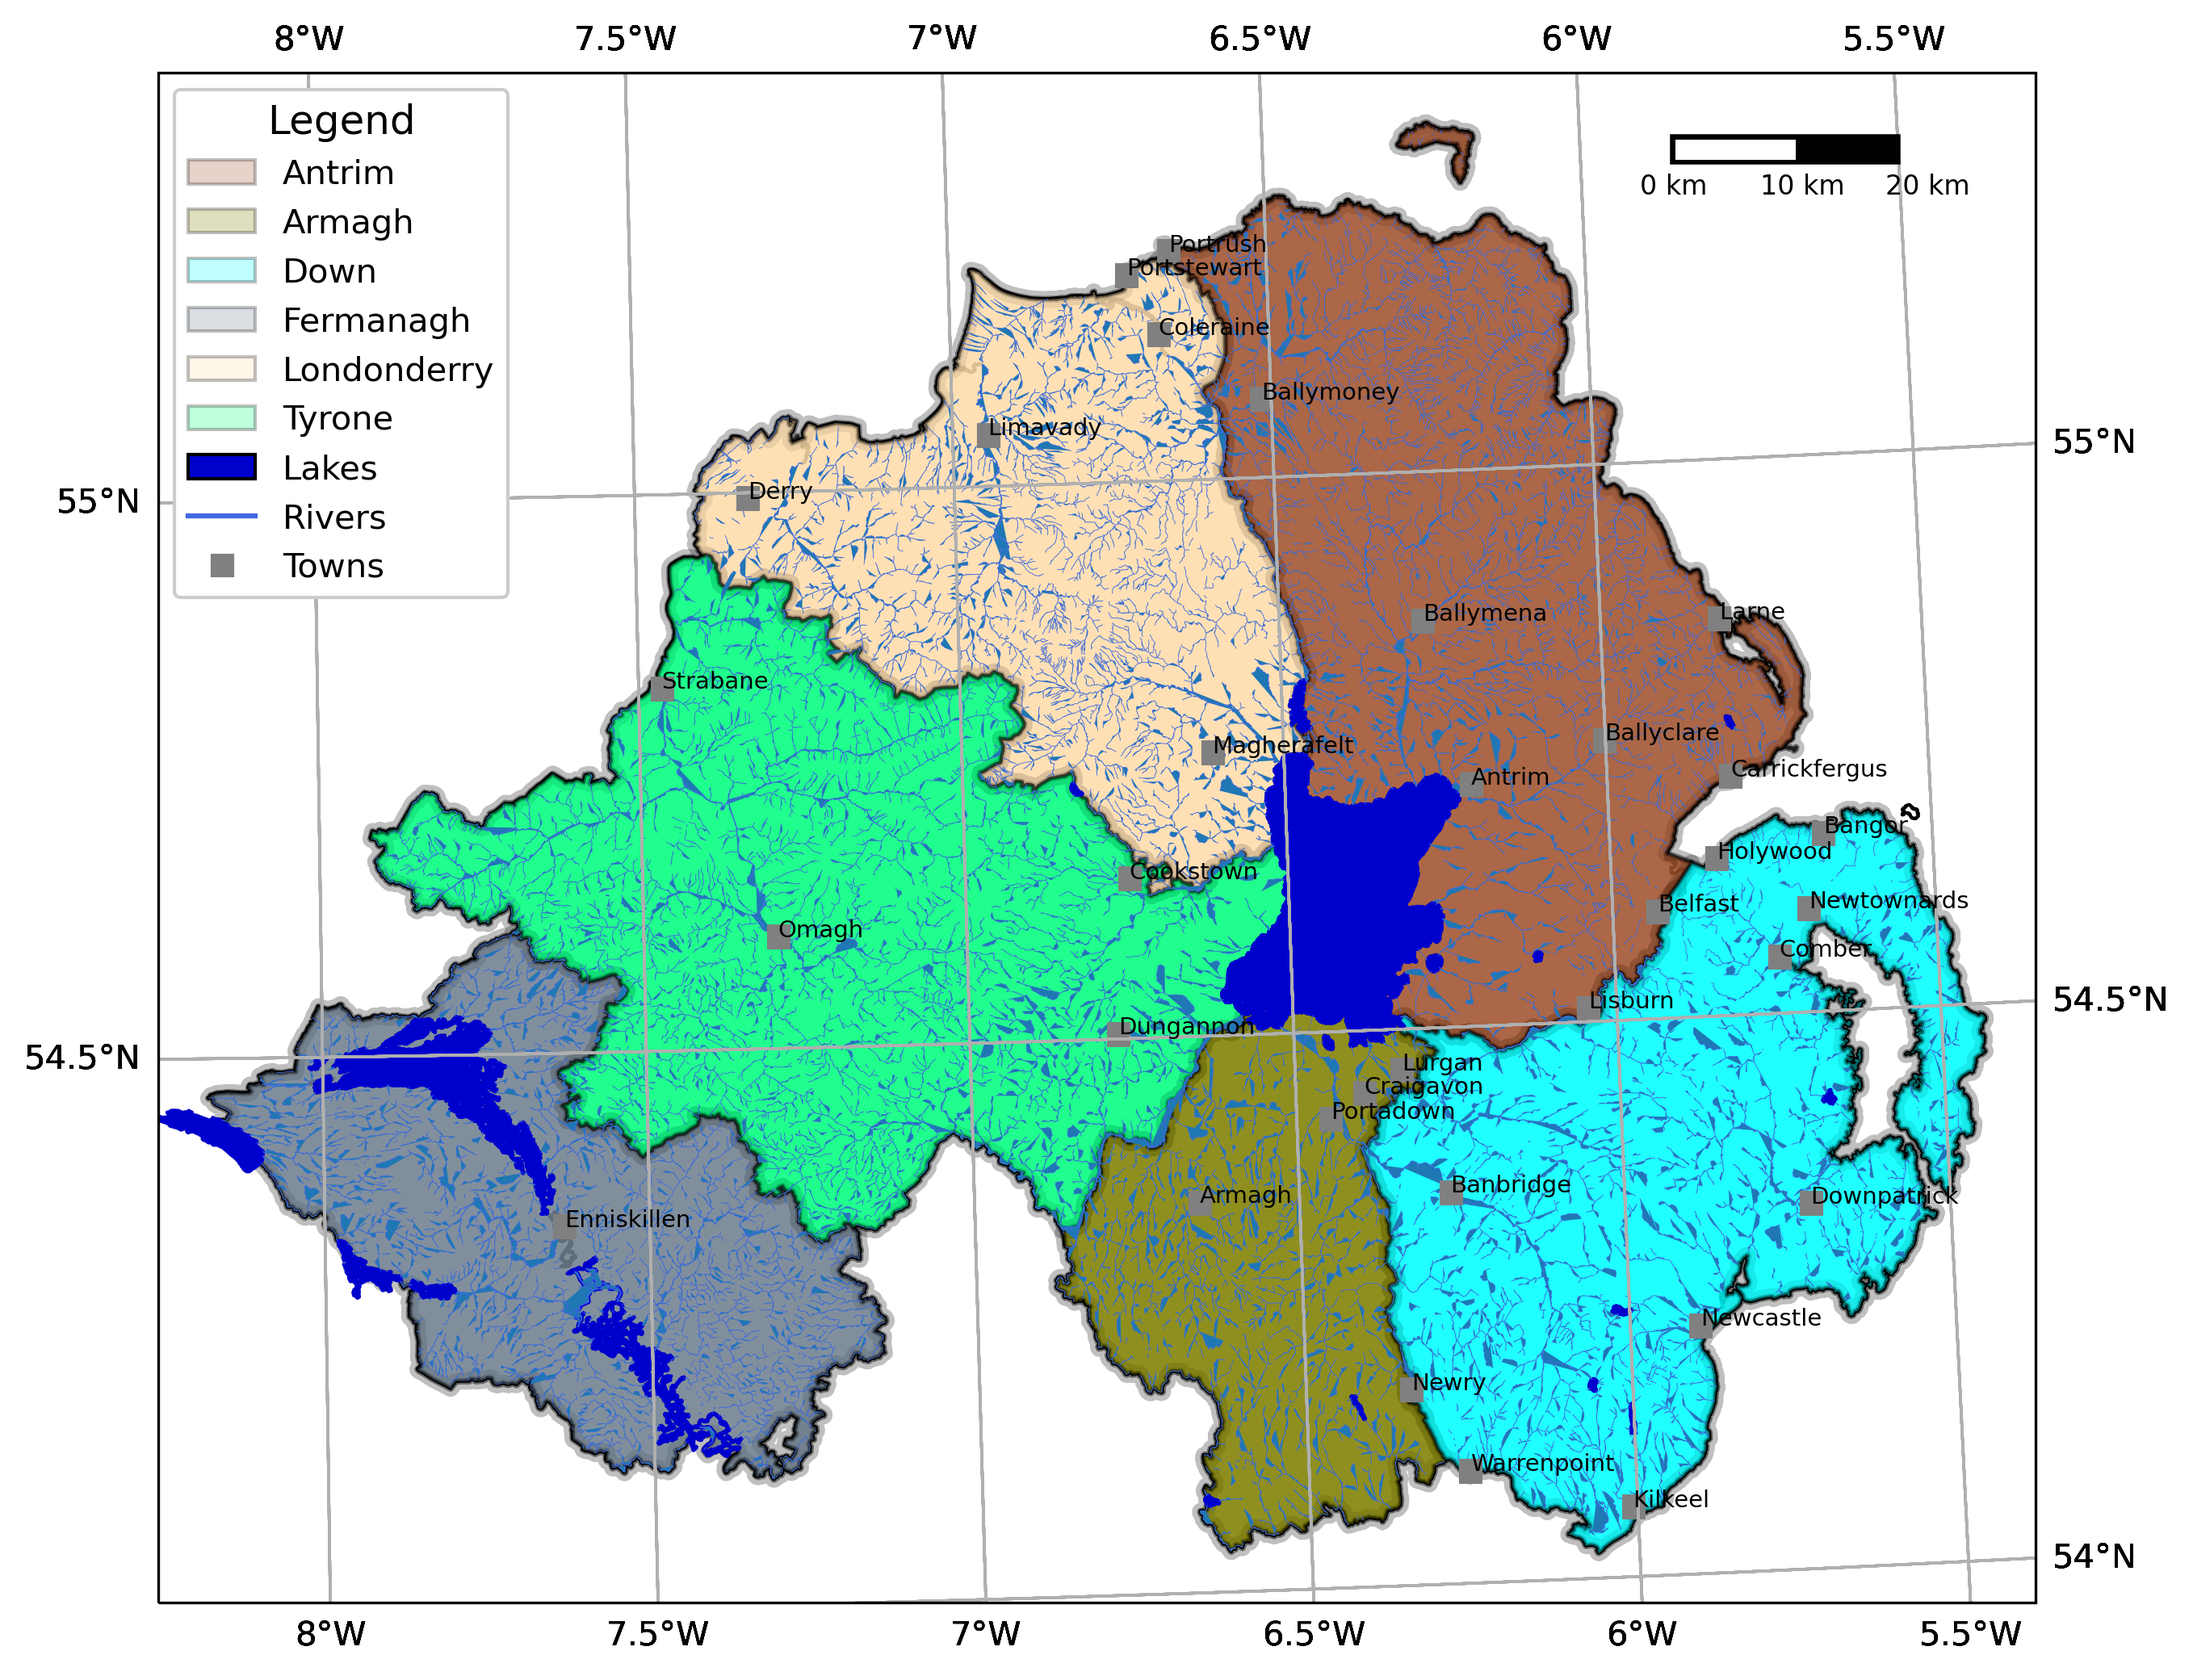
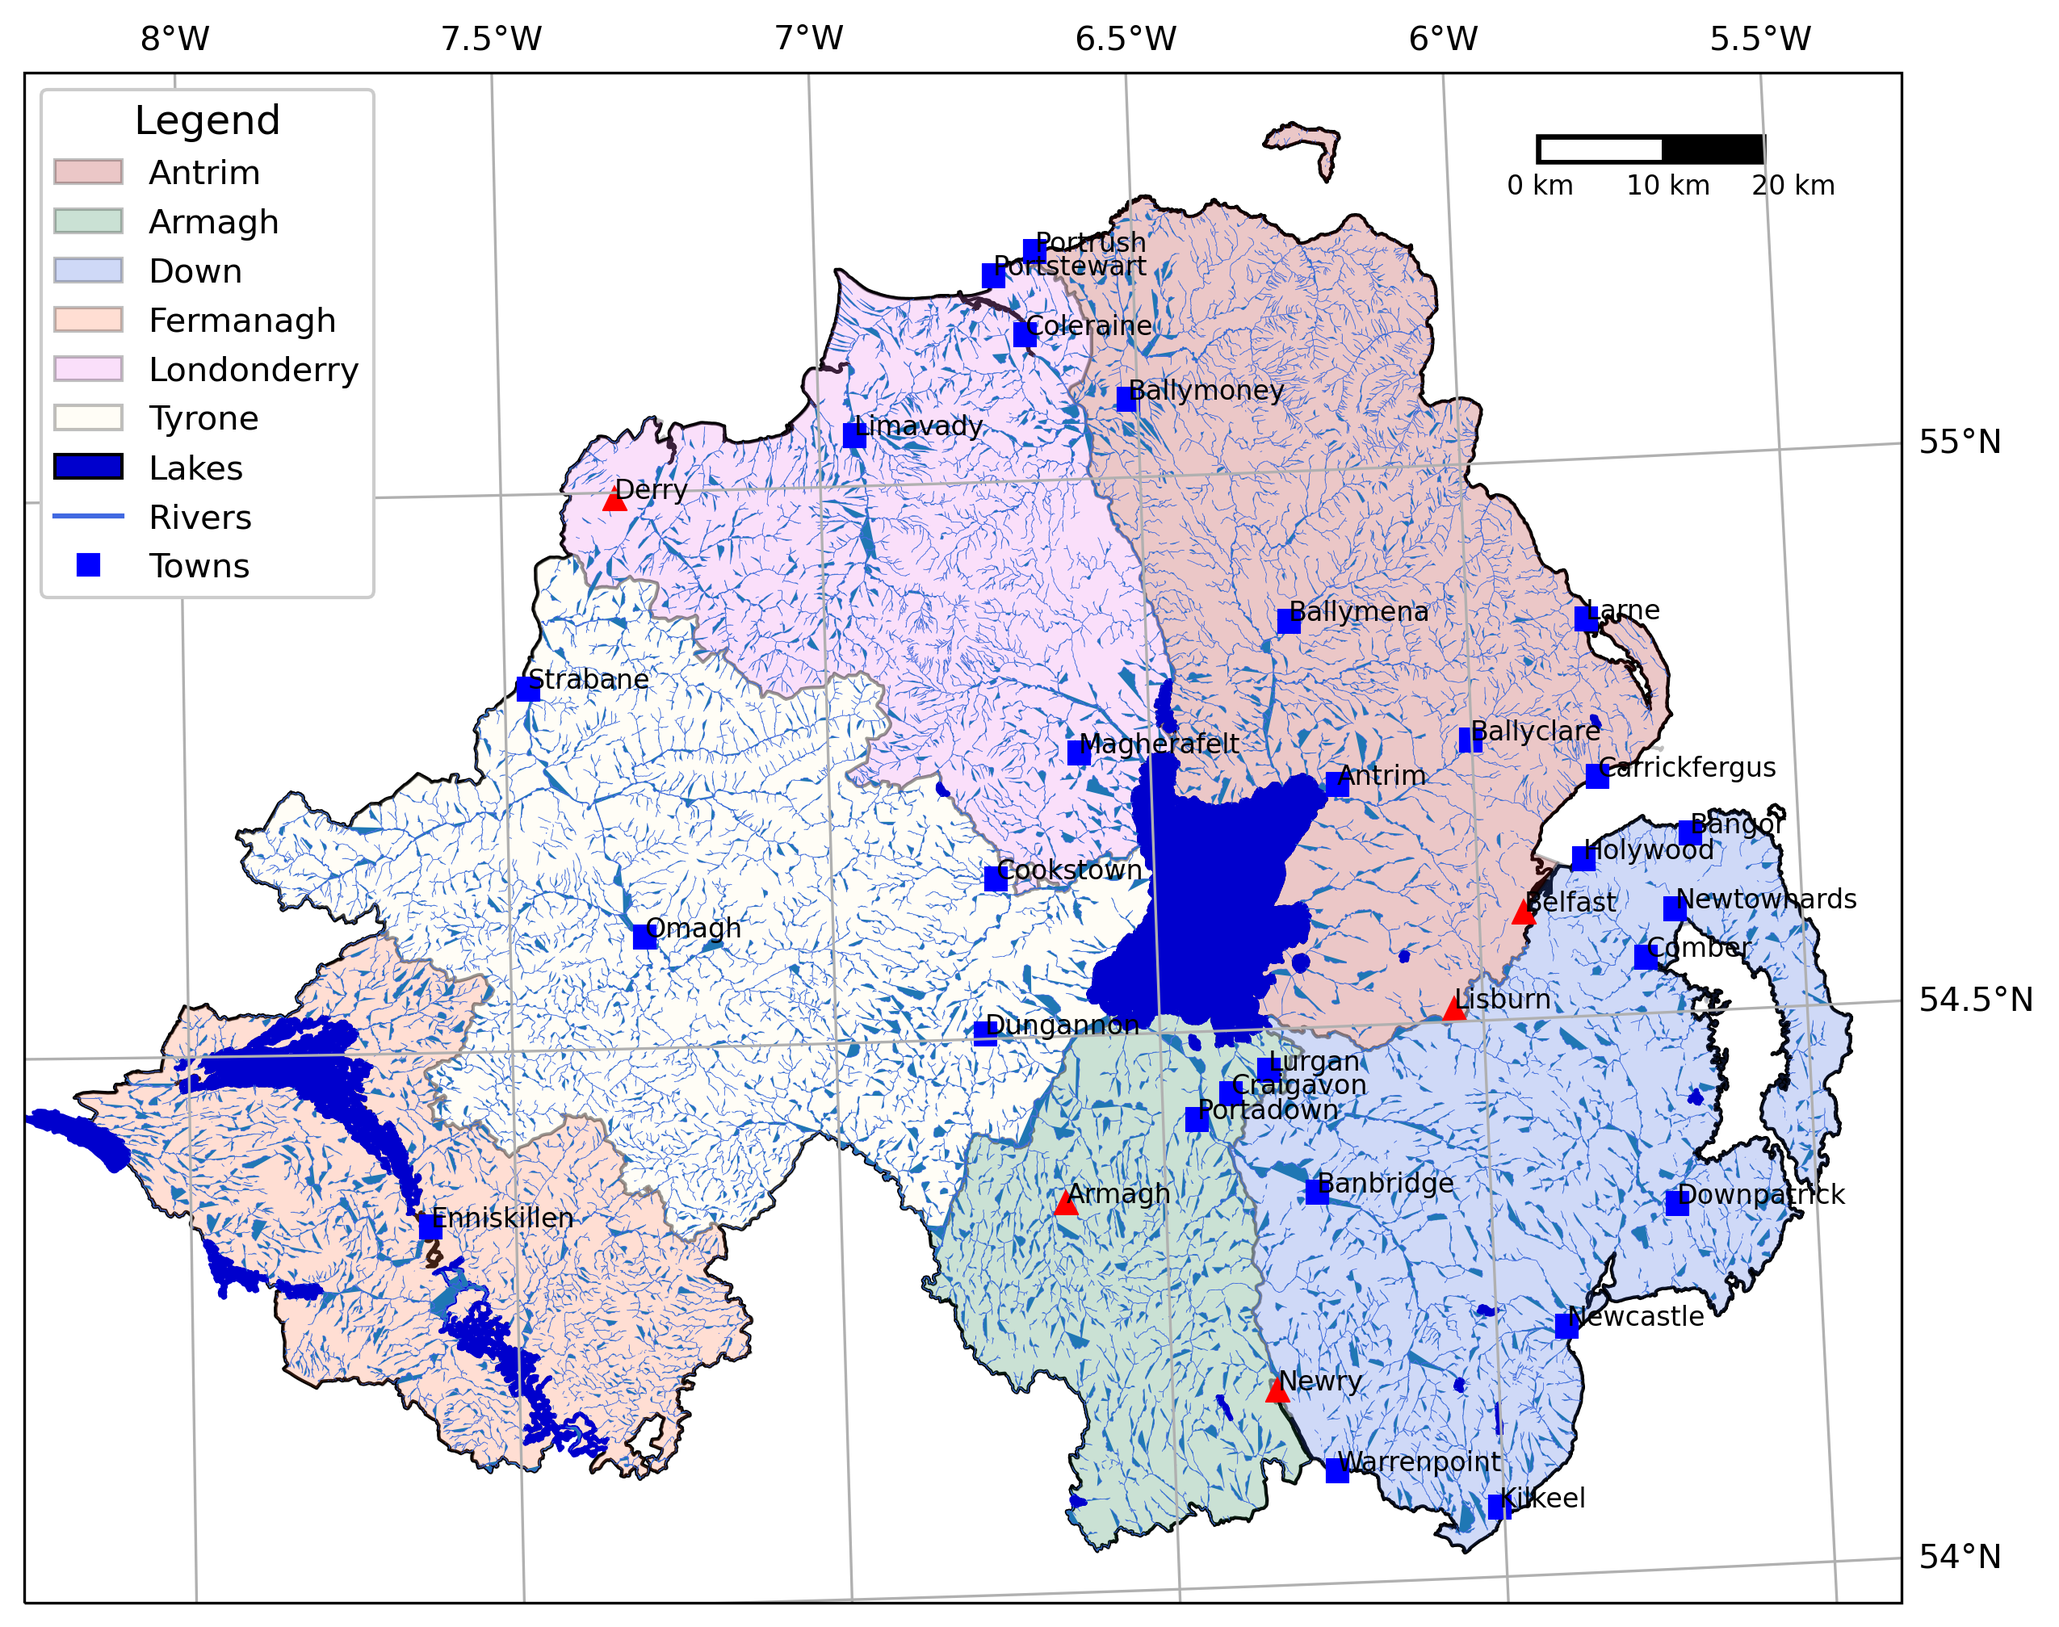
script modified, city and towns
- added just_towns and just_cities
- seperate handle for towns and cities
- colors changed of markers
- legend value added for cities

diff --git a/Week2/practical2_script.py b/Week2/practical2_script.py
@@ -98,7 +98,15 @@ river_feat = ShapelyFeature(rivers['geometry'],  # first argument is the geometr
 ax.add_feature(river_feat)  # add the collection of features to the map
 
 # ShapelyFeature creates a polygon, so for point data we can just use ax.plot()
-town_handle = ax.plot(towns.geometry.x, towns.geometry.y, 's', color='0.5', ms=6, transform=myCRS)
+just_towns = towns.loc[towns['town_city'] == 0]
+print(just_towns)
+
+town_handle = ax.plot(just_towns.geometry.x, just_towns.geometry.y, 's', color='b', ms=6, transform=myCRS)
+
+just_cities = towns.loc[towns['town_city'] == 1]
+print(just_cities)
+
+city_handle = ax.plot(just_cities.geometry.x, just_cities.geometry.y, '^', color='r', ms=6, transform=myCRS)
 
 # generate a list of handles for the county datasets
 county_handles = generate_handles(counties.CountyName.unique(), county_colors, alpha=0.25)
@@ -114,7 +122,7 @@ nice_names = [name.title() for name in county_names]
 
 # ax.legend() takes a list of handles and a list of labels corresponding to the objects you want to add to the legend
 handles = county_handles + water_handle + river_handle + town_handle
-labels = nice_names + ['Lakes', 'Rivers', 'Towns']
+labels = nice_names + ['Lakes', 'Rivers', 'Towns', 'Cities']
 
 leg = ax.legend(handles, labels, title='Legend', title_fontsize=12,
                 fontsize=10, loc='upper left', frameon=True, framealpha=1)
